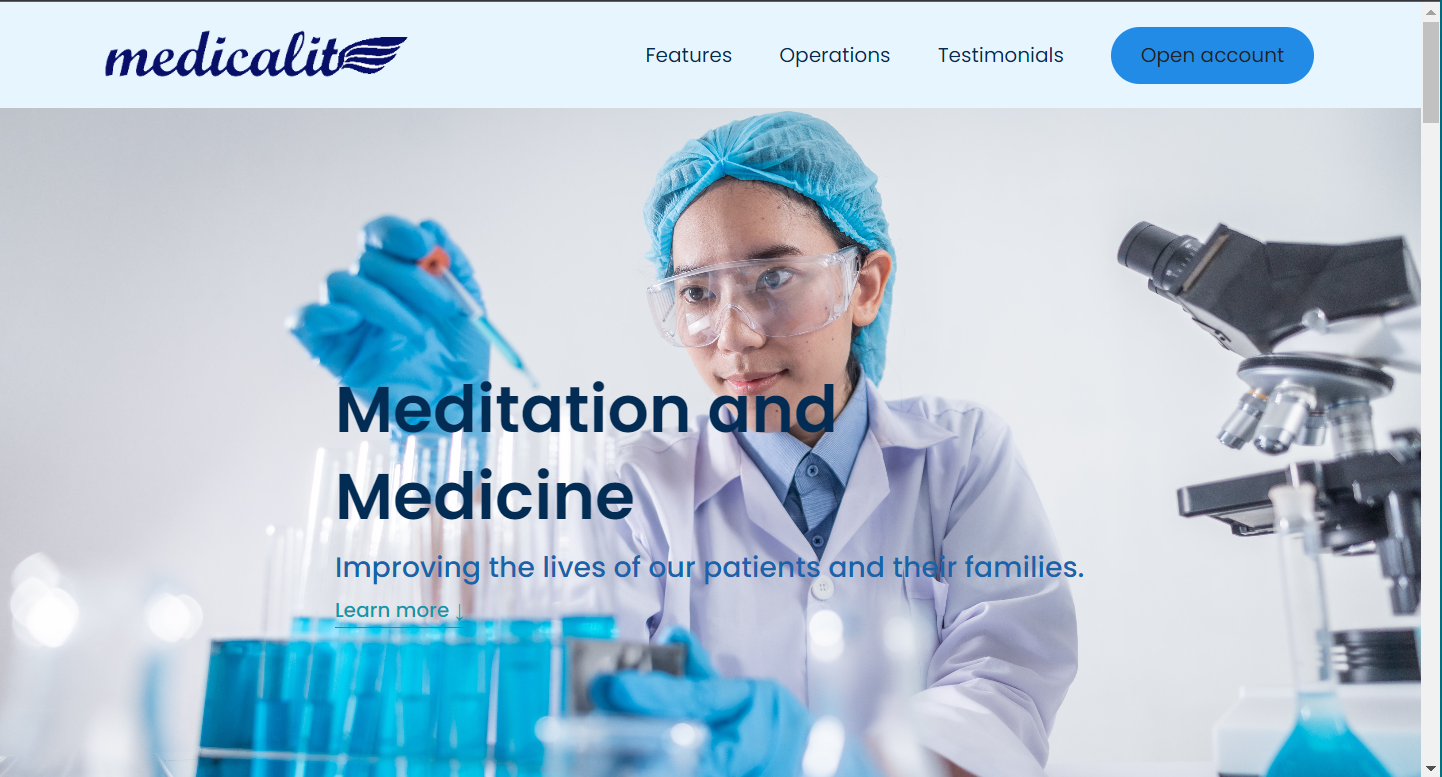
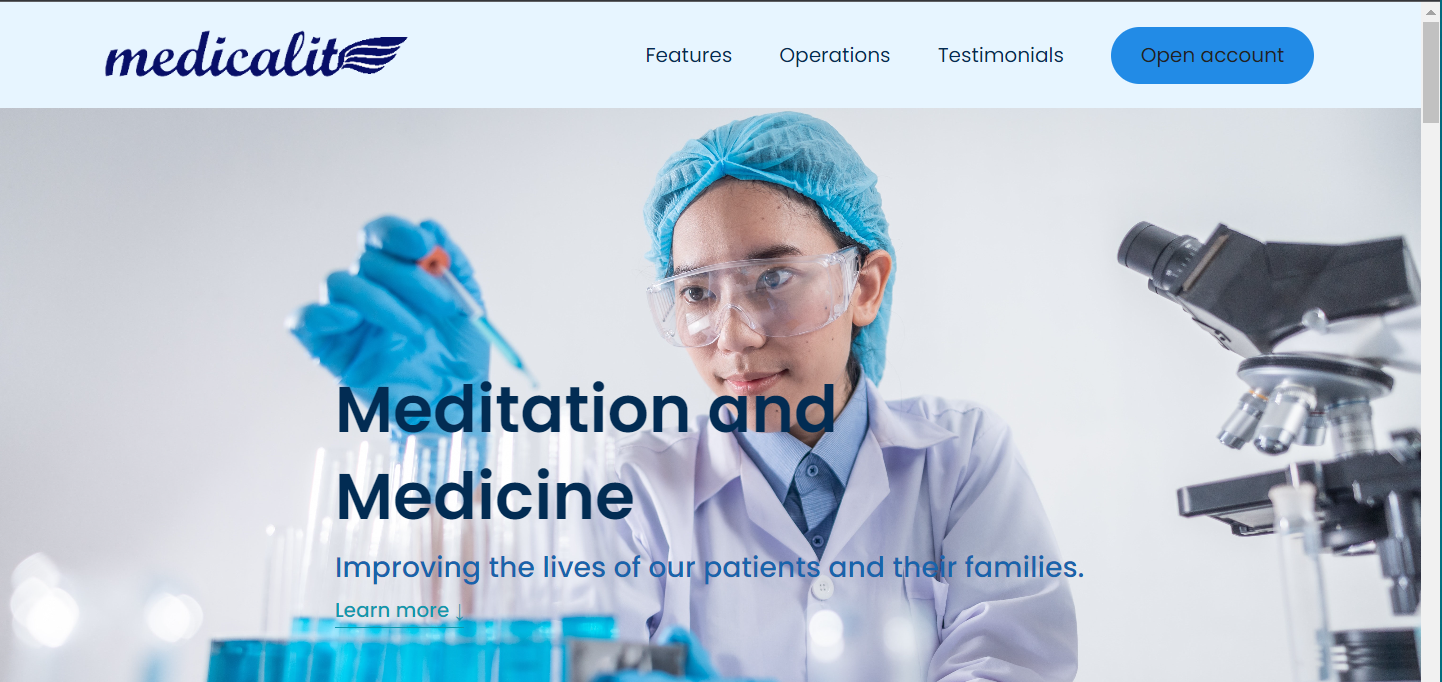
add project tecomia

diff --git a/index.html b/index.html
@@ -511,7 +511,7 @@
             <span class="filter-item outer-shadow active" data-target="all"
               >all</span
             >
-            <span class="filter-item" data-target="frontend">frontend</span>
+            <span class="filter-item" data-target="Html & CSS">Html & CSS</span>
             <span class="filter-item" data-target="react">react</span>
             <span class="filter-item" data-target="fullstack">full stack</span>
           </div>
@@ -520,7 +520,7 @@
         <!-- project items start -->
         <div class="row project-items">
           <!-- project item start -->
-          <div class="project-item" data-category="frontend">
+          <div class="project-item" data-category="Html & CSS">
             <div class="project-item-inner outer-shadow">
               <div class="project-item-img">
                 <img
@@ -584,7 +584,7 @@
           </div>
           <!-- project item end -->
           <!-- project item start -->
-          <div class="project-item" data-category="frontend">
+          <div class="project-item" data-category="Html & CSS">
             <div class="project-item-inner outer-shadow">
               <div class="project-item-img">
                 <img
@@ -645,7 +645,7 @@
           </div>
           <!-- project item end -->
           <!-- project item start -->
-          <div class="project-item" data-category="frontend">
+          <div class="project-item" data-category="Html & CSS">
             <div class="project-item-inner outer-shadow">
               <div class="project-item-img">
                 <img
@@ -755,6 +755,67 @@
                         Web -<span
                           ><a href="https://budget-karuna.netlify.app/"
                             >Budget</a
+                          ></span
+                        >
+                      </li>
+                    </ul>
+                  </div>
+                </div>
+              </div>
+              <!-- project item details end -->
+            </div>
+          </div>
+          <!-- project item end -->
+          <!-- project item start -->
+          <div class="project-item" data-category="fullstack">
+            <div class="project-item-inner outer-shadow">
+              <div class="project-item-img">
+                <img
+                  src="img/portfolio/thumb/project-5.png"
+                  alt="project"
+                  data-screenshots="img/portfolio/large/project-5/1.png,
+            img/portfolio/large/project-5/2.png,
+            img/portfolio/large/project-5/3.png,
+            img/portfolio/large/project-5/4.png,
+            img/portfolio/large/project-5/5.png,
+            img/portfolio/large/project-5/6.png,
+            img/portfolio/large/project-5/7.png,
+            img/portfolio/large/project-5/8.png,
+            img/portfolio/large/project-5/9.png,
+            img/portfolio/large/project-5/10.png"
+                />
+
+                <!-- view project btn -->
+                <span class="view-project">view project</span>
+              </div>
+              <p class="project-item-title">Techomia</p>
+              <!-- project item details start -->
+              <div class="project-item-details">
+                <div class="row">
+                  <div class="description">
+                    <h3>Project Brief:</h3>
+                    <p>
+                      At TECHOMIA, we believe there is a better way to do event
+                      handling, a more valuable, less invasive way where
+                      organizations and universities are earned rather than
+                      bought. We are obsessively passionate about it. The
+                      Novelty associated with TECHOMIA is that our website is
+                      inexhautible. It cannot be used for organising just single
+                      event/fest instead can be used to organise multiple
+                      events/fest round the year by client organization.
+                    </p>
+                  </div>
+                  <div class="info">
+                    <h3>Project info</h3>
+                    <ul>
+                      <li>Date -<span>2022</span></li>
+                      <li>
+                        Tools -<span>html,css,js,NodeJS,mongoose,etc.</span>
+                      </li>
+                      <li>
+                        Web -<span
+                          ><a href="https://techomia.netlify.app/"
+                            >TechFest</a
                           ></span
                         >
                       </li>
